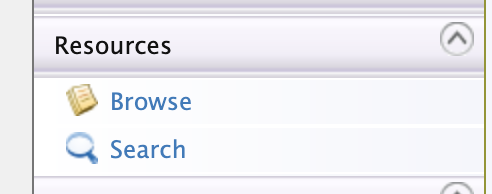
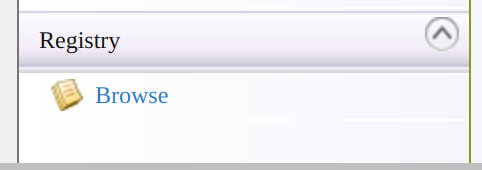
Update carbon registry path

Changed region(s): [[0.0, 0.0, 1.0, 1.0], [0.1245, 0.6765, 0.4046, 0.8529]]

diff --git a/en/docs/deploy-and-publish/publish-on-dev-portal/publish-to-multiple-external-api-stores.md b/en/docs/deploy-and-publish/publish-on-dev-portal/publish-to-multiple-external-api-stores.md
@@ -45,7 +45,7 @@ In this guide, let's use two separate instances of WSO2 API Manager, and let's p
         In a **multi-tenant environment**, you must sign in using the tenant's credentials.
 
 
-5.  Navigate to  **Main > Resources > Browse**.
+5.  Navigate to  **Main > Registry > Browse**.
 
     <img src="{{base_path}}/assets/img/learn/navigate-main-resources.png" alt="Menu option to navigate to the Browse option" title="Menu option to navigate to the Browse option" width="70%" />
     
